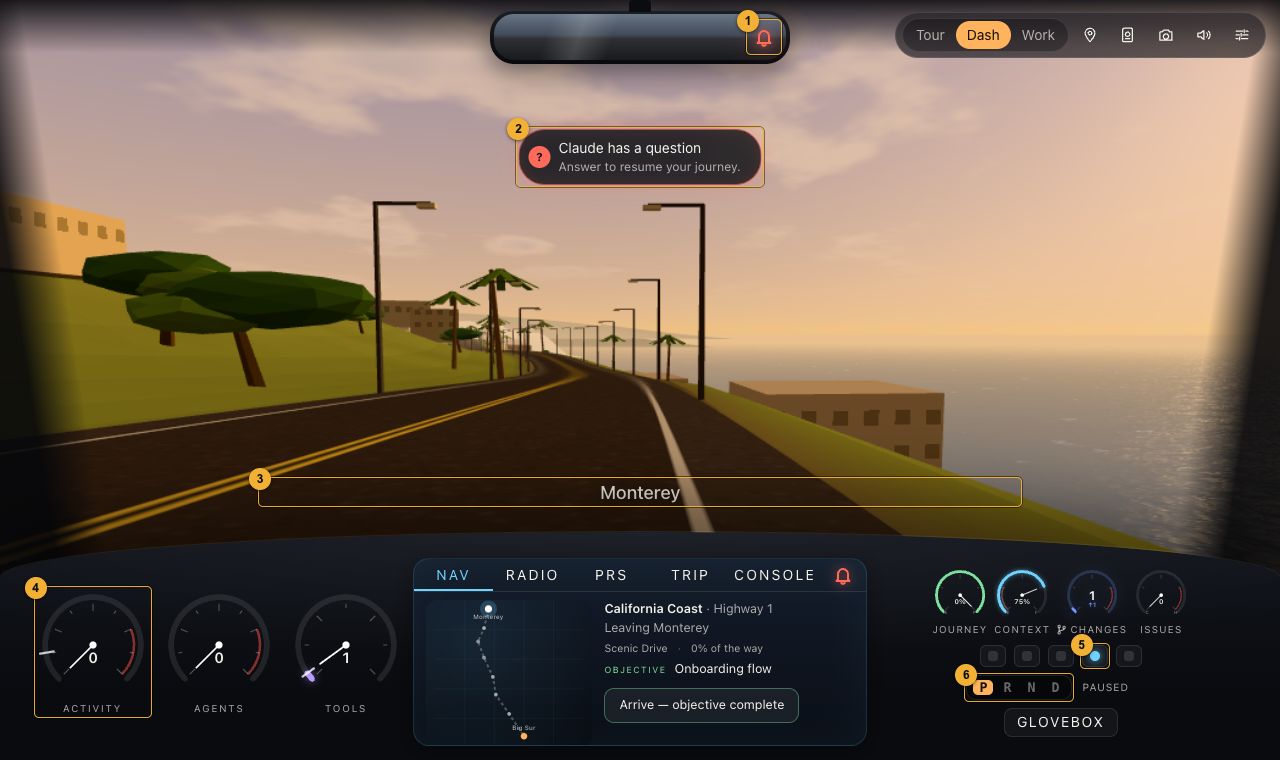
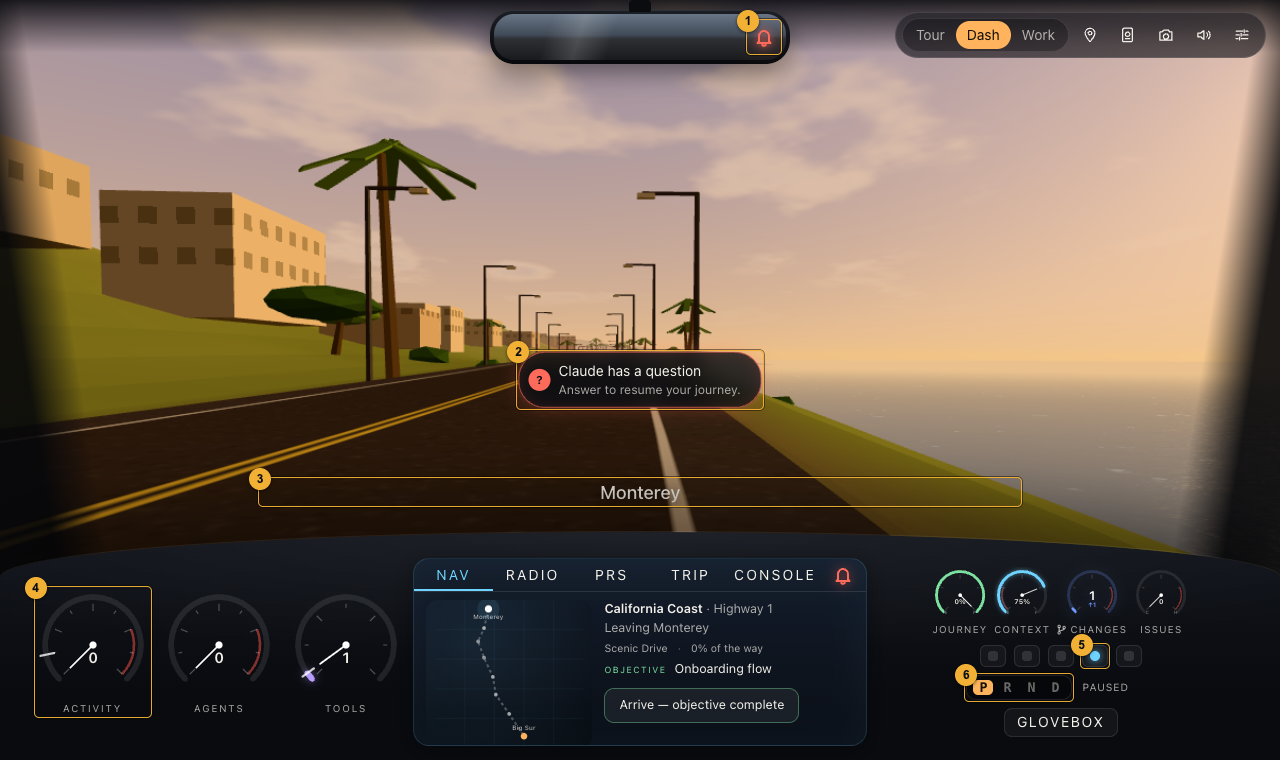
Round 3 follow-up: the dashboard comes up at a stop in Tour mode
- Tour mode keeps the view clear while the car drives; when it stops, the
  dashboard slides up with the stop pill, and goes again when the drive resumes.
- The stop pill sits in the middle of the window, not near the top.
- On a phone, Activity, Agents and Tools sit in one centred row, the small
  gauges in a centred row under them, then the gear, then the screen.

diff --git a/src/webview/styles.css b/src/webview/styles.css
@@ -420,12 +420,13 @@ button.alert:focus-visible {
 
 /* --------------------------------------------------------------- stop card */
 
-/* Why the car stopped: one pill, like the alert pills, kept narrow enough to read; it wraps and grows taller. */
+/* Why the car stopped: one pill, like the alert pills, kept narrow enough to read; it wraps and grows taller.
+   Centred top to bottom in the window. */
 .stop-card {
   position: absolute;
-  top: 17vh;
+  top: 50%;
   left: 50%;
-  transform: translate(-50%, -8px);
+  transform: translate(-50%, calc(-50% - 8px));
   width: max-content;
   max-width: min(440px, 88vw);
   display: flex;
@@ -440,7 +441,7 @@ button.alert:focus-visible {
 }
 .stop-card.show {
   opacity: 1;
-  transform: translate(-50%, 0);
+  transform: translate(-50%, -50%);
   pointer-events: auto !important;
 }
 .stop-card .alert {
@@ -507,6 +508,15 @@ button.alert:focus-visible {
   transform: translateY(105%);
   opacity: 0;
   pointer-events: none;
+}
+/* Tour mode keeps the view clear while the car drives; when it stops, the dashboard comes up. */
+.mode-tour .car-stopped .dash {
+  transform: none;
+  opacity: 1;
+  pointer-events: auto;
+}
+.mode-tour .car-stopped .hud {
+  bottom: calc(var(--dash-h) + 3.5vh);
 }
 .cluster {
   display: flex;
@@ -2595,19 +2605,25 @@ button.problem:hover {
   :root {
     --dash-h: clamp(220px, 40vh, 320px);
   }
+  /* A phone: Activity, Agents and Tools in a centred row; the small gauges centred under them, the gear under those; then the screen. */
   .dash {
-    grid-template-columns: minmax(0, 1fr) minmax(0, 1fr);
-    grid-template-rows: auto minmax(0, 1fr);
+    grid-template-columns: minmax(0, 1fr);
+    grid-template-rows: auto auto minmax(0, 1fr);
     padding: 18px 16px 10px;
-    gap: 10px;
+    gap: 6px;
   }
   .dash .screen {
-    grid-column: 1 / -1;
-    grid-row: 2;
+    grid-column: 1;
+    grid-row: 3;
+  }
+  .cluster-left {
+    grid-row: 1;
   }
   .cluster-right {
-    flex-direction: row;
-    flex-wrap: wrap;
+    grid-row: 2;
+    flex-direction: column;
+    align-items: center;
+    gap: 4px;
   }
   .gear-hint,
   .glovebox,
@@ -2633,11 +2649,10 @@ button.problem:hover {
     width: 60px;
     height: 60px;
   }
-  /* Up to five dials: wrap them rather than run off the edge. */
+  /* Up to five dials, in one centred row. */
   .mini-gauges {
-    flex-wrap: wrap;
     justify-content: center;
-    gap: 2px 4px;
+    gap: 2px 8px;
   }
   .mini-gauges[data-count] .gauge-small .gauge-svg {
     width: 50px;

diff --git a/e2e/demo.spec.ts b/e2e/demo.spec.ts
@@ -43,6 +43,7 @@ test('switches between Tour, Dashboard and Work modes from the keyboard', async 
   // Tour mode keeps the lower windshield empty: no strip, no line while the car drives.
   await expect(page.locator('.tour-strip')).toHaveCount(0);
   await expect(page.locator('.hud-caption')).toBeHidden();
+  await expect.poll(() => page.locator('.dash').evaluate((el) => Number(getComputedStyle(el).opacity))).toBe(0);
   await page.keyboard.press('w');
   await expect(root).toHaveClass(/mode-work/);
   await expect(page.locator('.work-panel h3', { hasText: 'Problems' })).toBeVisible();
@@ -71,6 +72,11 @@ test('the demo story drives the cockpit: agent work, tests and a scenic stop', a
   await expect(pill).toHaveClass(/alert-blocking/);
   // Activity is the speedometer: zero while stopped.
   await expect(page.getByRole('meter', { name: /Speedometer/ })).toHaveAttribute('aria-valuenow', '0');
+  // Tour mode hides the dashboard while the car drives, and brings it up while it's stopped.
+  await page.keyboard.press('t');
+  await expect(page.locator('.vt')).toHaveClass(/mode-tour/);
+  await expect.poll(() => page.locator('.dash').evaluate((el) => Number(getComputedStyle(el).opacity))).toBe(1);
+  await page.keyboard.press('d');
   await expect(page.locator('.alert-bell')).toHaveClass(/lit-blocking/);
   // The rear-view mirror is a plain mirror; the bell on its corner is its only display.
   await expect(page.locator('.mirror-wrap .mirror')).toBeVisible();

diff --git a/src/webview/ui/cockpit.ts b/src/webview/ui/cockpit.ts
@@ -91,6 +91,8 @@ export class Cockpit {
   private readonly workPanels: Record<string, HTMLElement> = {};
   private readonly workMap = new RouteMap(true);
   private tab: Tab = 'nav';
+  /** The car is stopped and the stop pill is up: Tour mode brings the dashboard up too. */
+  private stopShown = false;
 
   constructor(
     private readonly ctx: AppContext,
@@ -176,7 +178,9 @@ export class Cockpit {
 
   /** The radio runs its lights and follows song titles only while its pane is on screen. */
   syncRadio(): void {
-    this.deck.setVisible(this.tab === 'radio' && this.ctx.prefs.mode === 'dashboard');
+    const mode = this.ctx.prefs.mode;
+    const dashUp = mode === 'dashboard' || (mode === 'tour' && this.stopShown);
+    this.deck.setVisible(this.tab === 'radio' && dashUp);
   }
 
   private buildWork(): void {
@@ -405,6 +409,12 @@ export class Cockpit {
     const j = snap.journey;
     const show = !!j && (m.stopped || j.phase === 'parked') && m.behavior !== 'arrived';
     toggle(this.stopCard, 'show', show);
+    // In Tour mode the dashboard comes up while the car is stopped, and goes when it drives on.
+    toggle(this.root, 'car-stopped', show);
+    if (show !== this.stopShown) {
+      this.stopShown = show;
+      this.syncRadio();
+    }
     if (!show) return;
     const a = snap.activity;
     const parked = j!.phase === 'parked';

diff --git a/docs/site/controls-map.html b/docs/site/controls-map.html
@@ -291,7 +291,7 @@ code{font-family:var(--mono);font-size:.85em}
   <section id="tour">
     <div class="eyebrow">Mode</div>
     <h2>Tour mode</h2>
-    <p class="intro">The view and nothing in front of it: no strip, and no windshield line while the car drives. When the car stops, the stop pill and the place show as on the dashboard. The top bar shows when you move the mouse and fades after a few seconds. Press <kbd>T</kbd>.</p>
+    <p class="intro">The view and nothing in front of it: no dashboard, no strip, and no windshield line while the car drives. When the car stops, the dashboard comes up with the stop pill and the place, and goes again when the drive resumes. The top bar shows when you move the mouse and fades after a few seconds. Press <kbd>T</kbd>.</p>
     <figure>
       <a class="zoom" href="images/controls/tour.png" target="_blank" rel="noopener"><img src="images/controls/tour.png" alt="Tour mode: the VibeTour dashboard with its controls numbered" width="1280" height="760" loading="lazy"></a>
       <figcaption>Demo display, 1280 × 760. Open the picture for full size.</figcaption>

diff --git a/docs/signal-map.md b/docs/signal-map.md
@@ -119,8 +119,8 @@ The same wiring, read the other way: pick an object and see which signals reach 
 | Temperature | Errors, warnings (a fifth as much) and failed checks. Scaled so more than three issues (a score of 4) reach its red zone at 75%, which burns a deeper red. | Heads-up, Build left failing |
 | Gear P · R · N · D | P when stopped. R within 60 s of a diff while coding or thinking. D while coding, agent at work, verifying or on final approach. N otherwise. | Every moment |
 | **Windshield and mirrors** | | |
-| Stop pill | Why the car stopped, as one pill under the mirror: what happened, then what resumes the drive, quieter (*Claude has a question* / *Answer to resume your journey.*). A question, a plan, an approval, an API error, a failing build, your turn, a breather, refuelling, or parked (with *Resume journey* under it). When an alert stopped the car, the pill is that alert, coloured like the bells; clicking it goes where you act. At most 440 px wide: a long message wraps and the pill grows taller. | Agent needs you, Your turn, Idle, Blocked, Parked |
-| HUD | One line at the bottom of the windshield, and only while the car is stopped in a town or at a landmark on the route: its name (*Carmel-by-the-Sea*, *Bixby Creek Bridge*), within 2.5% of the trip either side of it; and *Arrived in Big Sur*. The stop pill says why the car stopped. Nothing while the car moves, nothing at a stop between places, and nothing while refuelling (the pill names the station). Before any journey: *Where do you want to go today?* Nothing else ever sits at the bottom of the windshield, in any mode. | Stops in a town, arriving |
+| Stop pill | Why the car stopped, as one pill in the middle of the window: what happened, then what resumes the drive, quieter (*Claude has a question* / *Answer to resume your journey.*). A question, a plan, an approval, an API error, a failing build, your turn, a breather, refuelling, or parked (with *Resume journey* under it). When an alert stopped the car, the pill is that alert, coloured like the bells; clicking it goes where you act. At most 440 px wide: a long message wraps and the pill grows taller. | Agent needs you, Your turn, Idle, Blocked, Parked |
+| HUD | One line at the bottom of the windshield, and only while the car is stopped in a town or at a landmark on the route: its name (*Carmel-by-the-Sea*, *Bixby Creek Bridge*), within 2.5% of the trip either side of it; and *Arrived in Big Sur*. The stop pill says why the car stopped. Nothing while the car moves, nothing at a stop between places, and nothing while refuelling (the pill names the station). Before any journey: *Where do you want to go today?* Nothing else ever sits at the bottom of the windshield, in any mode. In Tour mode the dashboard comes up while the car is stopped, and goes when it drives on. | Stops in a town, arriving |
 | Alerts bell (on the rear-view mirror's glass, near its right end) | Lit by the loudest alert: **red** when something stopped the car (a question, a plan, an approval, an agent that stopped, a build left failing), **orange** when something needs you but the car may drive on (your turn, a PR of yours that needs you), **blue** for files changed and not committed. Dark when there is nothing. Clicking it opens the dash on the Alerts tab. | Any alert |
 | Rear-view mirror | A plain mirror: nothing written on it. Its only display is the Alerts bell, a glowing glyph on its glass. The recent events it used to list are the Console tab's *Recent* log. On a phone, and in Tour mode on a narrow screen, the mirror hides and the bell stands alone on a dark disc. | — |
 | **Center screen** | | |
